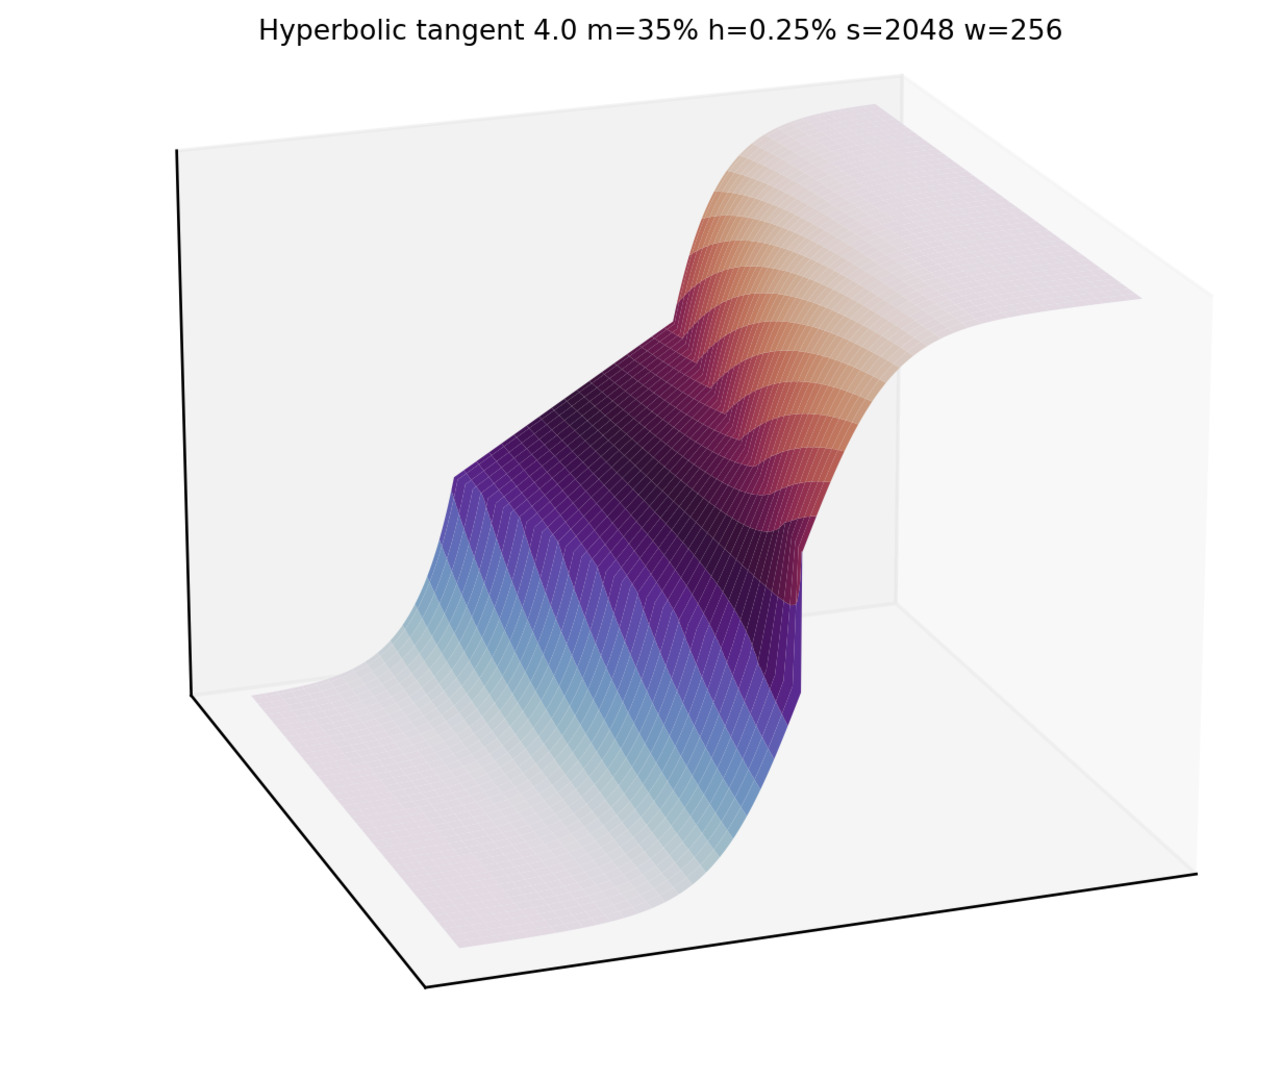
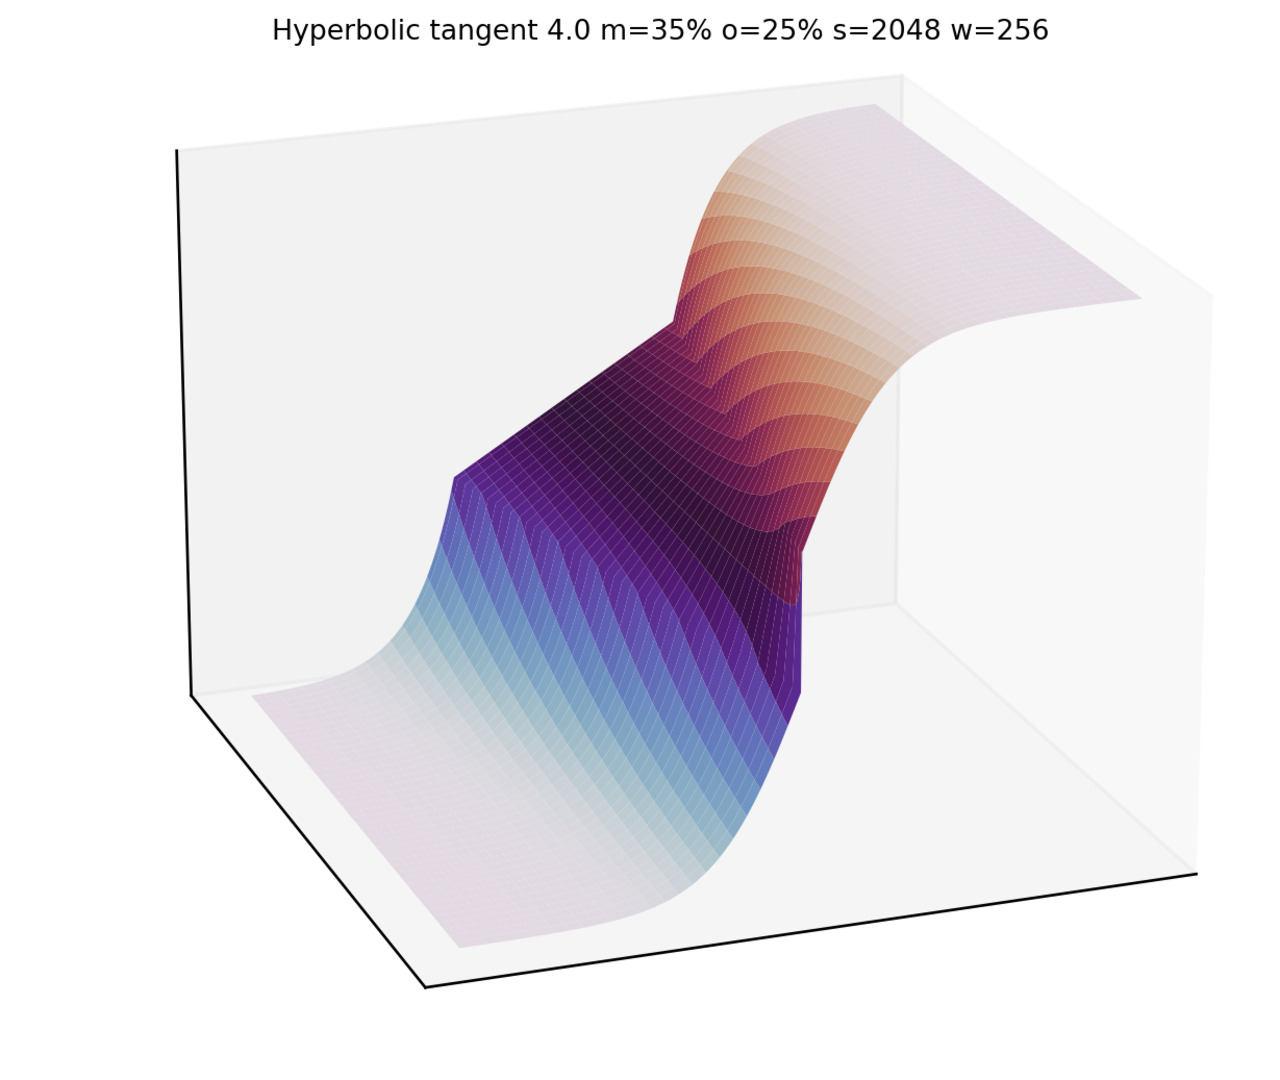
fix graph title and affected images

Changed region(s): [[0.1875, 0.0, 0.8438, 0.0611]]

diff --git a/gen_n_tag.py b/gen_n_tag.py
@@ -99,11 +99,11 @@ for o in range(-25,26,5):
     mk_h2p({'mid_yoffset': o, 'mid_width_pct': mid, 'dline': True})
     mk_h2p({'mid_yoffset': o, 'mid_width_pct': mid, 'dline': True, 'gauss': ga})
 
-savgol = 10
+savgol = (10, 3)
 print(f'savgol={savgol}')
-mk_wav({'num_waveforms': wa, 'num_samples': sa, 'savgol': (savgol, 3)})
-mk_wt({'num_waveforms': wa, 'num_samples': sa, 'savgol': (savgol, 3)})
-mk_h2p({'savgol': (savgol, 3)})
+mk_wav({'num_waveforms': wa, 'num_samples': sa, 'savgol': savgol})
+mk_wt({'num_waveforms': wa, 'num_samples': sa, 'savgol': savgol})
+mk_h2p({'savgol': savgol})
 
 gauss = 40
 print(f'gauss={gauss}')

diff --git a/wtcurve.py b/wtcurve.py
@@ -174,7 +174,7 @@ class WtCurve:
 
     def _title(self):
         return (f'{self.title} m={self.a.mid_width_pct}% '
-                f'h={self.mid_yoffset}% '
+                f'o={self.a.mid_yoffset}% '
                 f's={self.num_samples} w={self.num_waveforms}')
 
     def _mk_graph(self):
